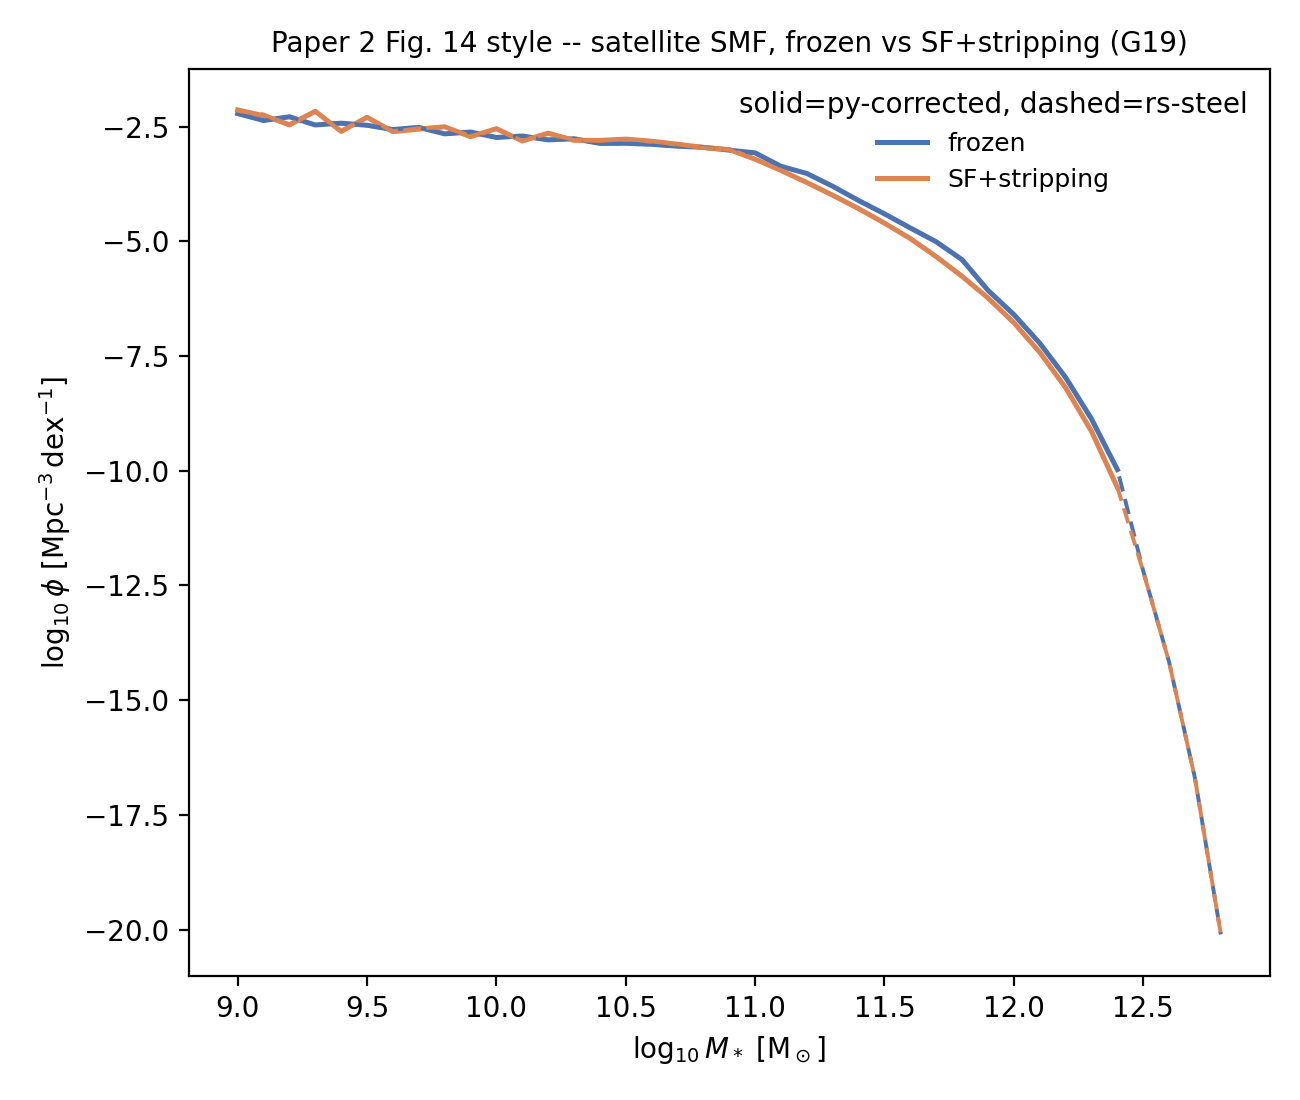
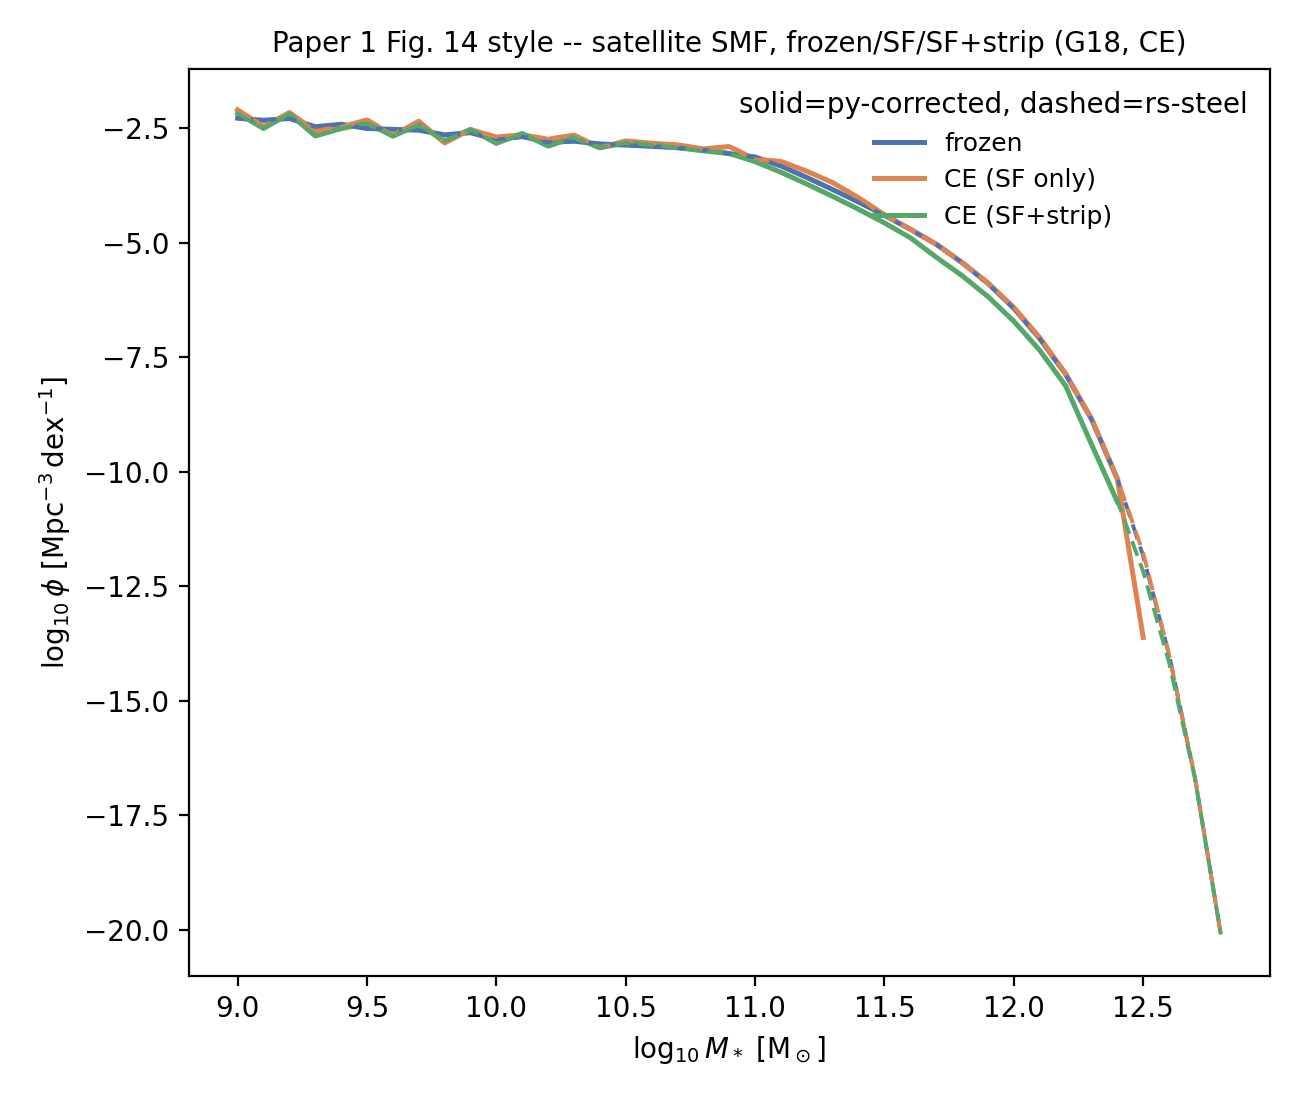
Rebuild Paper 1 Figs 12-15 with the real CE SFR model (G18 preset)
Replaces the G19_DPL-substitute files with real reproductions using
CE (TomczakFormSfr::ce()) and the correct G18 SMHM preset, from 4 new
three-way runs (T16 SF+strip, CE SF+strip, CE SF-only, G18 frozen):
Fig 12 (SSMF, T16 vs CE), Fig 13 (sSFR, T16 vs CE), Fig 14 (SSMF,
frozen/SF/SF+strip -- now all 3 lines), Fig 15 (same 3 lines, full 3x2
satellite-distribution grid, previously only 2 lines/one row). All
show tight py-corrected/rs-steel agreement.

diff --git a/Scripts/Validation/ssfr_sfr_sweep.py b/Scripts/Validation/ssfr_sfr_sweep.py
@@ -1,4 +1,4 @@
-"""Reproduce Paper 2 Fig. 13's content: satellite sSFR distributions
+"""Reproduce Paper 1 Fig. 13's content: satellite sSFR distributions
 in 3 stellar-mass bins, overlaid across SFR models (one colour per
 model, solid/dashed for py-corrected/rs-steel), from the same
 Satellite_sSFR histogram ssfr_plot.py uses. The paper's second model
@@ -53,7 +53,7 @@ def main():
 
     axes[0].set_ylabel(r"$N\ [\mathrm{Mpc}^{-3}\,\mathrm{h}^3]$")
     axes[0].legend(loc="upper left", frameon=False, fontsize=8.5, title="solid=py-corrected\ndashed=rs-steel")
-    fig.suptitle("Paper 2 Fig. 13 style -- satellite sSFR, SFR-model sweep (G19)", fontsize=10.5)
+    fig.suptitle("Paper 1 Fig. 13 style -- satellite sSFR, SFR-model sweep (G18)", fontsize=10.5)
     fig.tight_layout()
     fig.savefig(args.out, dpi=200)
     print("wrote:", args.out)

diff --git a/docs/RESULTS_REPRODUCTION.md b/docs/RESULTS_REPRODUCTION.md
@@ -68,12 +68,13 @@ Four classes, assigned per figure below:
    exact numeric match to the published curves, which was never the
    goal per this doc's opening note. Figs 12-15's rebuild (below) uses
    the correct G18.
-2. **Paper 1 Figs 12/13/14/15** used G19_DPL as a substitute for the
-   CE (continuity-equation) SFR model, believing CE wasn't ported.
-   **CE is implemented** (`TomczakFormSfr::ce()` /
+2. **FIXED.** Paper 1 Figs 12/13/14/15 used G19_DPL as a substitute
+   for the CE (continuity-equation) SFR model, believing CE wasn't
+   ported. **CE is implemented** (`TomczakFormSfr::ce()` /
    `rust/steel-io/src/runfile.rs` `preset = "ce"`) — this was an
-   error, not a limitation, and these figures need rebuilding with the
-   real CE model.
+   error, not a limitation. Rebuilt with 4 new G18/CE/T16 runs
+   (`p1-sf-strip-t16.toml`, `p1-sf-strip-ce.toml`, `p1-sf-ce.toml`,
+   `p1-tdyn-1.0.toml`), matching the correct preset this time.
 3. **Paper 3 Fig. 3** only reproduced the figure's outer/context
    panels (the input SMHM relation under each of the 13 PFT
    perturbations). The actual scientific result plotted in the
@@ -114,10 +115,10 @@ Until each of these is rebuilt, the affected rows below are marked
 | 9 | Satellite distributions, frozen model, same f_tdyn/z-evo axis, 3 mass cuts x 2 rows | run + data | **done** (`Paper1_Fig9_FrozenSweep_Grid.png`: full 3x2 grid, all 4 lines; some visible py/rust divergence in the fractional (bottom) row, consistent with small-number-statistics noise seen elsewhere in this reproduction, not a port defect; SDSS overlay omitted, G19_SE not G18) |
 | 10 | SSMF, frozen model, f_tdyn=0.5/1.0/2.5, vs SDSS | run + data | **done** (`Paper1_Fig10_TdynSweep.png`: correct frozen config, all 3 f_tdyn values, tight agreement; SDSS overlay omitted, G19_SE not G18) |
 | 11 | Satellite distributions, frozen model, f_tdyn=0.5/1.0/2.5, 3 mass cuts x 2 rows | run + data | **done** (`Paper1_Fig11_TdynSweep_Grid.png`: full 3x2 grid; same fractional-row noise caveat as Fig. 9; SDSS overlay omitted, G19_SE not G18) |
-| 12 | SSMF, T16 vs CE SFR, vs SDSS | run + data | **pending rebuild** -- old file (`Paper1_Fig12_SFRModelSweep_DPL_SUBSTITUTE.png`) substitutes G19_DPL for CE unnecessarily; CE is implemented (`TomczakFormSfr::ce()`) and should be used |
-| 13 | sSFR distributions, T16 vs CE, vs SDSS | run + data | **pending rebuild** -- same DPL-for-CE substitution issue (`Paper1_Fig13_sSFRSweep_DPL_SUBSTITUTE.png`) |
-| 14 | SSMF, frozen/SF/SF+strip, vs SDSS | run + data | **2 of 3 lines done, CE substitution unverified** (`Paper1_Fig14_ConfigSweep.png`: frozen and SF+stripping; SF-only line and SDSS overlay not built; need to confirm the "SF" lines use CE not DPL) |
-| 15 | Satellite distributions, frozen/SF/SF+strip, vs SDSS | run + data | **2 of 3 lines done, same caveats as Fig. 14** (`Paper1_Fig15_ConfigSweep.png`) |
+| 12 | SSMF, T16 vs CE SFR, vs SDSS | run + data | **done** (`Paper1_Fig12_SFRModelSweep.png`: real CE (`TomczakFormSfr::ce()`) vs T16, G18 preset, tight py/rust agreement; SDSS overlay omitted) |
+| 13 | sSFR distributions, T16 vs CE, vs SDSS | run + data | **done** (`Paper1_Fig13_sSFRSweep.png`: real CE vs T16, G18; same sparse-bin small-number-statistics caveat as elsewhere; SDSS overlay omitted) |
+| 14 | SSMF, frozen/SF/SF+strip, vs SDSS | run + data | **done** (`Paper1_Fig14_ConfigSweep.png`: all 3 lines -- frozen, CE SF-only, CE SF+stripping -- G18 preset, tight agreement; SDSS overlay omitted) |
+| 15 | Satellite distributions, frozen/SF/SF+strip, vs SDSS | run + data | **done** (`Paper1_Fig15_ConfigSweep_Grid.png`: all 3 lines, full 3x2 grid, G18/CE; SDSS overlay omitted) |
 
 ## Paper 2 (galaxy growth / SFR / ellipticals paper, arXiv 1910.08417, MNRAS 491, "STEELIIIa")
 
